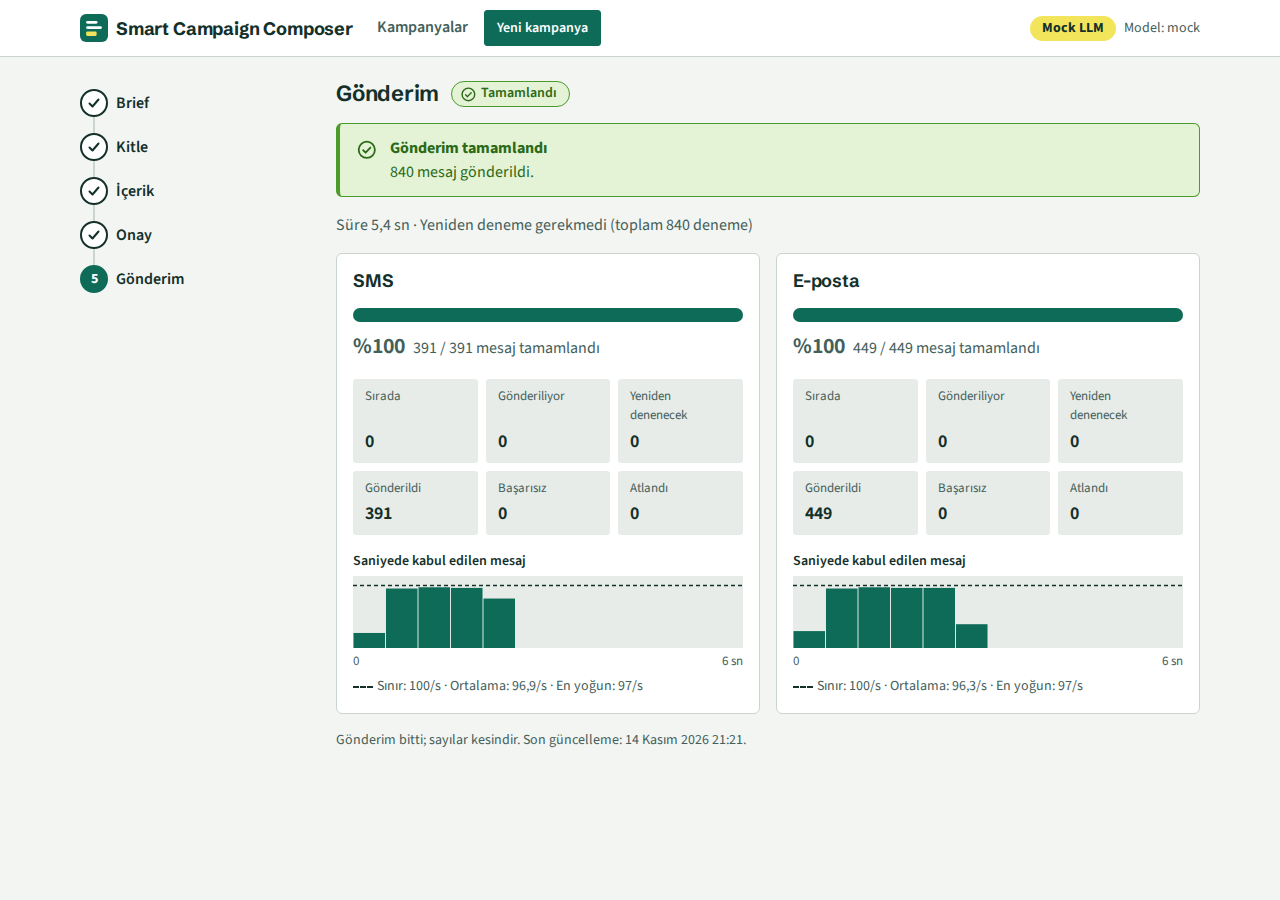
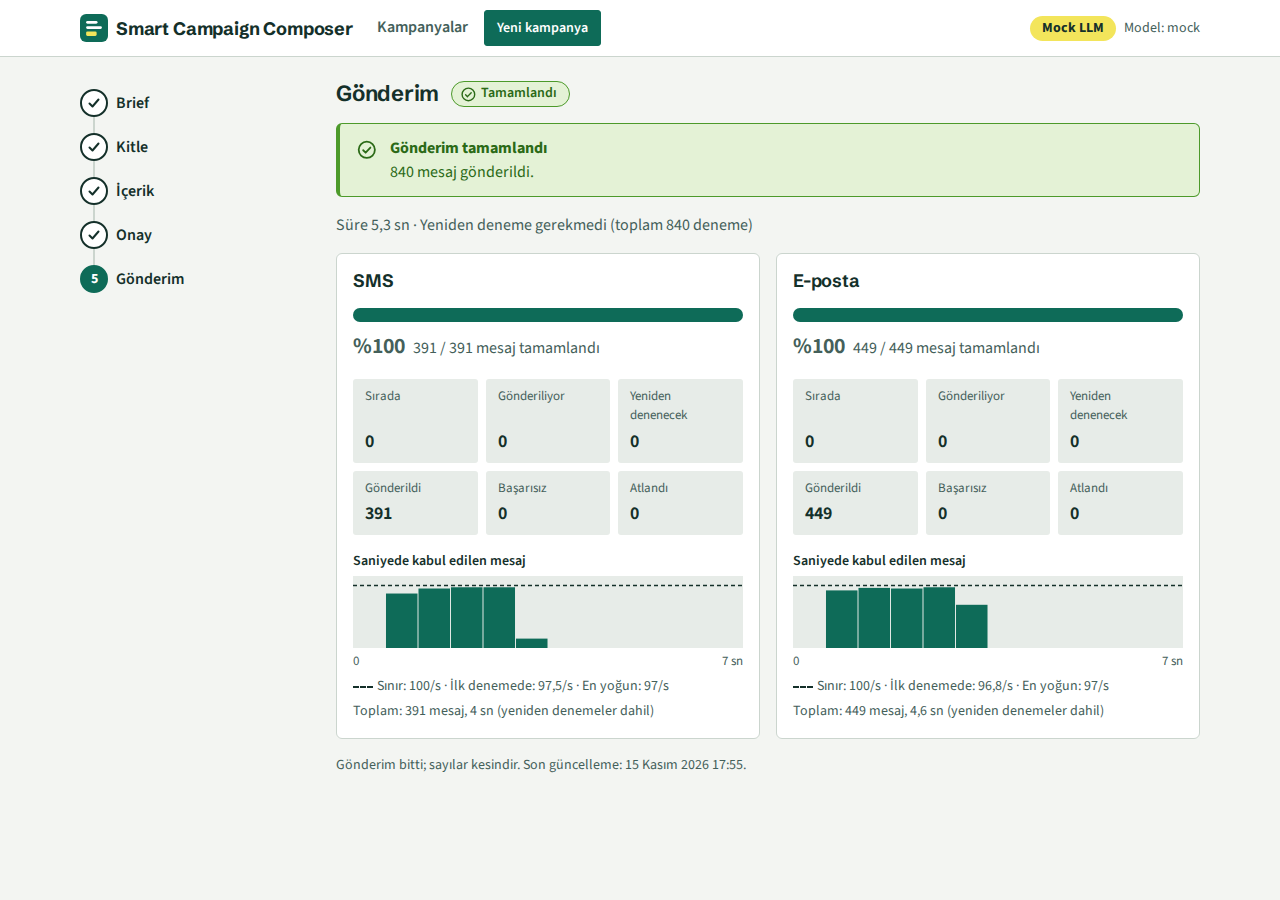
fix(campaign,web): first-attempt speed and total time per channel instead of one average
The average counted the wait for retries, so 351 e-mails in 47 s read 7.5/s next
to a cap of 100/s. The timeline now sends the speed of the first requests and the
total time apart (migration 0009 adds attempts to the sent-at index). Screenshots
regenerated with make e2e.

diff --git a/web/src/domain/delivery.ts b/web/src/domain/delivery.ts
@@ -1,5 +1,5 @@
 import type { CampaignStatus, ChannelCounts, Timeline } from '@/api/types'
-import { formatNumber, formatRate } from './format'
+import { formatDuration, formatNumber, formatRate } from './format'
 import type { Tone } from '@/components/ui/StatusIcon.vue'
 
 // Figures of the delivery dashboard that are not about drawing: how far a channel is, what its rate is, and how a campaign
@@ -100,8 +100,10 @@ export interface ChartModel {
   /** The limit in messages per second, or null when the worker never reported one. */
   limit: number | null
   peak: number
-  /** The channel's average rate from its first to its last message, or null when the server did not say. */
-  average: number | null
+  /** The speed of the sending itself (messages accepted on the first request), or null when the server did not say or nothing was sent. */
+  firstAttemptRate: number | null
+  /** Seconds from the channel's first to its last accepted message, retries included, or null when the server did not say. */
+  duration: number | null
   total: number
   /** Seconds the chart spans. */
   seconds: number
@@ -110,7 +112,10 @@ export interface ChartModel {
 export const MIN_SLOTS = 12
 
 /** The bars of a channel's timeline against its limit: pure numbers, so the drawing does no arithmetic. */
-export function chartOf(timeline: Pick<Timeline, 'bucket_seconds' | 'accepted' | 'average_per_second'>, limit: number | null): ChartModel {
+export function chartOf(
+  timeline: Pick<Timeline, 'bucket_seconds' | 'accepted' | 'first_attempt_per_second' | 'duration_seconds'>,
+  limit: number | null,
+): ChartModel {
   const width = timeline.bucket_seconds
   const bars = timeline.accepted.map((n, slot) => ({ slot, rate: n / width }))
   const peak = bars.reduce((m, b) => Math.max(m, b.rate), 0)
@@ -121,7 +126,8 @@ export function chartOf(timeline: Pick<Timeline, 'bucket_seconds' | 'accepted' |
     bars,
     limit,
     peak,
-    average: total === 0 ? null : (timeline.average_per_second ?? null),
+    firstAttemptRate: total === 0 ? null : (timeline.first_attempt_per_second ?? null),
+    duration: total === 0 ? null : (timeline.duration_seconds ?? null),
     total,
     seconds: bars.length * width,
   }
@@ -130,7 +136,8 @@ export function chartOf(timeline: Pick<Timeline, 'bucket_seconds' | 'accepted' |
 /** The chart in words, for a screen reader (the drawing itself is not read). */
 export function chartText(label: string, chart: ChartModel): string {
   const limit = chart.limit === null ? '' : ` Sınır: saniyede ${formatRate(chart.limit)} mesaj.`
-  const average = chart.average === null ? '' : `ortalama saniyede ${formatRate(chart.average)} mesaj, `
+  const firstAttempt = chart.firstAttemptRate === null ? '' : `ilk denemede saniyede ${formatRate(chart.firstAttemptRate)} mesaj, `
+  const total = chart.duration === null ? '' : ` Yeniden denemeler dahil toplam ${formatDuration(chart.duration)}.`
   if (chart.total === 0) return `${label}: henüz kabul edilen mesaj yok.${limit}`
-  return `${label}: ${formatNumber(chart.seconds)} saniyede ${formatNumber(chart.total)} mesaj kabul edildi; ${average}en yoğun saniyede ${formatRate(chart.peak)} mesaj.${limit}`
+  return `${label}: ${formatNumber(chart.seconds)} saniyede ${formatNumber(chart.total)} mesaj kabul edildi; ${firstAttempt}en yoğun saniyede ${formatRate(chart.peak)} mesaj.${limit}${total}`
 }

diff --git a/web/src/components/send/RateChart.test.ts b/web/src/components/send/RateChart.test.ts
@@ -41,15 +41,24 @@ describe('RateChart', () => {
     expect(unknown.text()).not.toContain('Sınır')
   })
 
-  it('gives the channel’s own average next to its peak and its cap', () => {
+  it('gives the channel’s own first-attempt speed next to its peak and its cap, and the total time apart', () => {
     const wrapper = mount(RateChart, {
-      props: { timeline: { start: '2026-11-14T12:00:00Z', bucket_seconds: 1, accepted: [0, 40, 100, 100, 20], average_per_second: 86.7 }, limit: 100, label: 'SMS' },
+      props: {
+        timeline: { start: '2026-11-14T12:00:00Z', bucket_seconds: 1, accepted: [0, 40, 100, 100, 20], first_attempt_per_second: 95.8, duration_seconds: 47.2 },
+        limit: 100,
+        label: 'SMS',
+      },
     })
-    expect(wrapper.get('.chart__caption').text()).toContain('Ortalama: 86,7/s')
+    expect(wrapper.get('.chart__caption').text()).toContain('İlk denemede: 95,8/s')
     expect(wrapper.get('.chart__caption').text()).toContain('En yoğun: 100/s')
-    expect(wrapper.get('svg').attributes('aria-label')).toContain('ortalama saniyede 86,7 mesaj, en yoğun saniyede 100 mesaj')
-    // an older server sends no average: the caption simply has none
-    expect(render([0, 40]).get('.chart__caption').text()).not.toContain('Ortalama')
+    // the whole time, retries included, is a figure of its own, so that it is not read as a speed next to the cap
+    expect(wrapper.get('.chart__total').text()).toBe('Toplam: 260 mesaj, 47 sn (yeniden denemeler dahil)')
+    expect(wrapper.get('svg').attributes('aria-label')).toContain('ilk denemede saniyede 95,8 mesaj, en yoğun saniyede 100 mesaj')
+    expect(wrapper.get('svg').attributes('aria-label')).toContain('Yeniden denemeler dahil toplam 47 sn.')
+    // an older server sends neither: the caption simply has none
+    const old = render([0, 40])
+    expect(old.get('.chart__caption').text()).not.toContain('İlk denemede')
+    expect(old.find('.chart__total').exists()).toBe(false)
   })
 
   it('has a text summary for a screen reader and the figures in words next to it', () => {

diff --git a/web/src/components/send/RateChart.vue b/web/src/components/send/RateChart.vue
@@ -2,7 +2,7 @@
 import { computed, useId } from 'vue'
 import type { Timeline } from '@/api/types'
 import { chartOf, chartText } from '@/domain/delivery'
-import { formatDuration, formatRate } from '@/domain/format'
+import { formatDuration, formatNumber, formatRate } from '@/domain/format'
 
 // The messages the provider accepted, second by second, as bars, with the channel's rate limit as a line. A small SVG without a
 // chart library: each bar is one bucket of the server's timeline. While the delivery runs the chart grows to the right with
@@ -48,8 +48,11 @@ const span = computed(() => formatDuration(chart.value.seconds))
     </div>
     <p class="chart__caption">
       <template v-if="limit !== null"><span class="chart__key" aria-hidden="true" />Sınır: <span class="num">{{ formatRate(limit) }}</span>/s · </template>
-      <template v-if="chart.average !== null">Ortalama: <span class="num">{{ formatRate(chart.average) }}</span>/s · </template>
+      <template v-if="chart.firstAttemptRate !== null">İlk denemede: <span class="num">{{ formatRate(chart.firstAttemptRate) }}</span>/s · </template>
       En yoğun: <span class="num">{{ formatRate(chart.peak) }}</span>/s
+    </p>
+    <p v-if="chart.duration !== null" class="chart__total">
+      Toplam: <span class="num">{{ formatNumber(chart.total) }}</span> mesaj, <span class="num">{{ formatDuration(chart.duration) }}</span> (yeniden denemeler dahil)
     </p>
   </figure>
 </template>
@@ -99,7 +102,8 @@ const span = computed(() => formatDuration(chart.value.seconds))
   font-size: var(--text-xs);
 }
 
-.chart__caption {
+.chart__caption,
+.chart__total {
   color: var(--text-soft);
   font-size: var(--text-sm);
 }

diff --git a/e2e/tests/happy-path.spec.ts b/e2e/tests/happy-path.spec.ts
@@ -80,13 +80,15 @@ test('brief to a finished delivery', async ({ page }) => {
   for (const channel of ['sms', 'email']) {
     const caption = (await page.locator(`[data-channel="${channel}"] .chart__caption`).innerText()).replace(/\s+/g, ' ')
     const figure = (re: RegExp) => Number(re.exec(caption)?.[1]?.replace(/\./g, '').replace(',', '.'))
-    const average = figure(/Ortalama: ([\d.,]+)\/s/)
+    const firstAttempt = figure(/İlk denemede: ([\d.,]+)\/s/)
     const peak = figure(/En yoğun: ([\d.,]+)\/s/)
-    expect(average, `the average of ${channel}`).toBeGreaterThan(0)
+    expect(firstAttempt, `the first-attempt speed of ${channel}`).toBeGreaterThan(0)
     expect(peak, `the peak of ${channel}`).toBeGreaterThan(0)
     // buckets are by the time the answer was recorded, so a little over the cap is not a broken cap; double would be one
     expect(peak, `${channel} is capped at 100/s`).toBeLessThanOrEqual(110)
-    expect(average, `${channel} is capped at 100/s`).toBeLessThanOrEqual(110)
+    expect(firstAttempt, `${channel} is capped at 100/s`).toBeLessThanOrEqual(110)
+    // the total time, retries included, is not a speed: it has its own line
+    await expect(page.locator(`[data-channel="${channel}"] .chart__total`)).toContainText(/Toplam: .* mesaj, .*yeniden denemeler dahil/)
   }
   await shot(page, '05-delivery-completed')
 })

diff --git a/web/src/api/campaigns.test.ts b/web/src/api/campaigns.test.ts
@@ -159,7 +159,8 @@ describe('a response that does not match the contract is a bad_response', () => 
     ['a rate limit that is not a number', { rate_limit: '100' }],
     ['a timeline without buckets', { timeline: { start: 'x', bucket_seconds: 1 } }],
     ['a timeline with a bucket width of zero', { timeline: { start: 'x', bucket_seconds: 0, accepted: [1] } }],
-    ['a timeline with an average that is not a number', { timeline: { start: 'x', bucket_seconds: 1, accepted: [1], average_per_second: 'fast' } }],
+    ['a timeline with a first-attempt speed that is not a number', { timeline: { start: 'x', bucket_seconds: 1, accepted: [1], first_attempt_per_second: 'fast' } }],
+    ['a timeline with a negative duration', { timeline: { start: 'x', bucket_seconds: 1, accepted: [1], duration_seconds: -1 } }],
     ['a timeline with a negative count', { timeline: { start: 'x', bucket_seconds: 1, accepted: [-1] } }],
     ['a timeline far longer than the server sends', { timeline: { start: 'x', bucket_seconds: 1, accepted: new Array(5000).fill(1) } }],
   ])('statistics with %s', async (_name, extra) => {

diff --git a/web/src/domain/delivery.test.ts b/web/src/domain/delivery.test.ts
@@ -123,7 +123,14 @@ describe('chartOf', () => {
     const chart = chartOf({ bucket_seconds: 2, accepted: [200, 100, 0] }, 100)
     expect(chart.bars.map((b) => b.rate)).toEqual([100, 50, 0])
     expect(chart.peak).toBe(100)
-    expect(chart.average).toBeNull() // no average from the server (an older one) or nothing sent: none is made up
+    // no figures from the server (an older one): none is made up
+    expect(chart.firstAttemptRate).toBeNull()
+    expect(chart.duration).toBeNull()
+    const sent = chartOf({ bucket_seconds: 1, accepted: [10], first_attempt_per_second: 8, duration_seconds: 20 }, 100)
+    expect([sent.firstAttemptRate, sent.duration]).toEqual([8, 20])
+    // nothing sent: nothing to say about its speed either
+    const none = chartOf({ bucket_seconds: 1, accepted: [0], first_attempt_per_second: 0, duration_seconds: 0 }, 100)
+    expect([none.firstAttemptRate, none.duration]).toEqual([null, null])
     expect(chart.total).toBe(300)
     expect(chart.seconds).toBe(6)
     expect(chart.max).toBeCloseTo(115)

diff --git a/web/src/api/types.ts b/web/src/api/types.ts
@@ -176,8 +176,10 @@ export interface Timeline {
   start: string
   bucket_seconds: number
   accepted: number[]
-  /** Messages of this channel per second from its first to its last one (at least a second); each channel has its own cap, so the rate is per channel. */
-  average_per_second?: number
+  /** Messages accepted on their first request per second, from the first to the last of them (at least a second): the speed of the sending itself, without the wait of retries. Per channel, as each has its own cap. */
+  first_attempt_per_second?: number
+  /** Seconds from the first to the last message the provider accepted on this channel, retries included. */
+  duration_seconds?: number
 }
 
 /** The send as a whole (null before the approval). */

diff --git a/web/src/api/campaigns.ts b/web/src/api/campaigns.ts
@@ -103,7 +103,8 @@ function isTimeline(t: unknown): boolean {
     Array.isArray(t.accepted) &&
     t.accepted.length <= MAX_BUCKETS &&
     t.accepted.every((n) => typeof n === 'number' && n >= 0) &&
-    optional(t.average_per_second, (a) => typeof a === 'number' && a >= 0)
+    optional(t.first_attempt_per_second, (a) => typeof a === 'number' && a >= 0) &&
+    optional(t.duration_seconds, (d) => typeof d === 'number' && d >= 0)
   )
 }
 

diff --git a/backend/internal/campaign/timeline.go b/backend/internal/campaign/timeline.go
@@ -34,10 +34,15 @@ type Timeline struct {
 	Start         time.Time `json:"start"`
 	BucketSeconds int       `json:"bucket_seconds"`
 	Accepted      []int     `json:"accepted"`
-	// AveragePerSecond is the messages of this channel divided by the time from its first to its last message, at least one
-	// second; zero before anything was sent. It is per channel on purpose: each channel has its own cap, and a figure of both
+	// FirstAttemptPerSecond is the speed of the sending itself: the messages the provider accepted on their first request (attempts
+	// = 1), divided by the time from the first to the last of them, at least one second; zero when there were none. A message
+	// that needed a retry waited out a backoff, so counting it (and the time of the tail) would put the figure far under the cap
+	// while the worker was sending at the cap. It is per channel on purpose: each channel has its own cap, and a figure of both
 	// channels together looks like a cap that was broken when it was not.
-	AveragePerSecond float64 `json:"average_per_second"`
+	FirstAttemptPerSecond float64 `json:"first_attempt_per_second"`
+	// DurationSeconds is the time from the first to the last message the provider accepted on this channel, retries included;
+	// zero before anything was sent. Next to the first-attempt speed it tells how long the retries kept the channel busy.
+	DurationSeconds float64 `json:"duration_seconds"`
 }
 
 // SendSummary describes the send as a whole. It holds no rate: the rates belong to a channel (see Timeline), the caps are per channel.
@@ -56,8 +61,11 @@ const TimelineBoundsSQL = `SELECT now(),
 	(SELECT sent_at FROM deliveries WHERE campaign_id = $1 AND status = 'sent' ORDER BY sent_at DESC LIMIT 1)`
 
 // TimelineSQL counts the sent messages of a campaign per channel and bucket: $1 the campaign, $2 the start of the first bucket,
-// $3 the bucket width in seconds. An index-only scan of deliveries_sent_at_idx (a test checks the plan).
-const TimelineSQL = `SELECT channel, GREATEST(floor(extract(epoch FROM sent_at - $2::timestamptz) / $3), 0)::int AS bucket, count(*), min(sent_at), max(sent_at)
+// $3 the bucket width in seconds. The last three columns are the same count and ends for the messages accepted on their first
+// request (attempts = 1); they are null-ended when the bucket has none. An index-only scan of deliveries_sent_at_idx, which
+// carries `attempts` as a payload column (migration 0009; a test checks the plan).
+const TimelineSQL = `SELECT channel, GREATEST(floor(extract(epoch FROM sent_at - $2::timestamptz) / $3), 0)::int AS bucket, count(*), min(sent_at), max(sent_at),
+		count(*) FILTER (WHERE attempts = 1), min(sent_at) FILTER (WHERE attempts = 1), max(sent_at) FILTER (WHERE attempts = 1)
 	FROM deliveries WHERE campaign_id = $1 AND status = 'sent' GROUP BY channel, bucket`
 
 // timelines reads the per-channel timelines of an approved campaign. approvedAt is the start; completedAt is nil while the send
@@ -91,16 +99,20 @@ func (s *Store) timelines(ctx context.Context, db reader, id int64, approvedAt t
 		return nil, fmt.Errorf("counting the messages of campaign %d per second: %w", id, err)
 	}
 	defer rows.Close()
+	// span is where the sent messages of a channel start and end; the first-attempt ones have a span of their own.
 	type span struct {
-		count       int
 		first, last time.Time
+		firstCount  int
+		firstFirst  time.Time
+		firstLast   time.Time
 	}
 	spans := map[string]*span{}
 	for rows.Next() {
 		var channel string
-		var bucket, count int
+		var bucket, count, firstCount int
 		var firstSent, lastSent time.Time
-		if err := rows.Scan(&channel, &bucket, &count, &firstSent, &lastSent); err != nil {
+		var firstTry, lastTry *time.Time // null when no message of the bucket was accepted on its first request
+		if err := rows.Scan(&channel, &bucket, &count, &firstSent, &lastSent, &firstCount, &firstTry, &lastTry); err != nil {
 			return nil, fmt.Errorf("counting the messages of campaign %d per second: %w", id, err)
 		}
 		tl := out[channel]
@@ -113,12 +125,20 @@ func (s *Store) timelines(ctx context.Context, db reader, id int64, approvedAt t
 			sp = &span{first: firstSent, last: lastSent}
 			spans[channel] = sp
 		}
-		sp.count += count
 		if firstSent.Before(sp.first) {
 			sp.first = firstSent
 		}
 		if lastSent.After(sp.last) {
 			sp.last = lastSent
+		}
+		if firstCount > 0 && firstTry != nil && lastTry != nil {
+			if sp.firstCount == 0 || firstTry.Before(sp.firstFirst) {
+				sp.firstFirst = *firstTry
+			}
+			if sp.firstCount == 0 || lastTry.After(sp.firstLast) {
+				sp.firstLast = *lastTry
+			}
+			sp.firstCount += firstCount
 		}
 	}
 	if err := rows.Err(); err != nil {
@@ -126,7 +146,10 @@ func (s *Store) timelines(ctx context.Context, db reader, id int64, approvedAt t
 	}
 
 	for ch, sp := range spans {
-		out[ch].AveragePerSecond = float64(sp.count) / max(1, sp.last.Sub(sp.first).Seconds())
+		out[ch].DurationSeconds = sp.last.Sub(sp.first).Seconds()
+		if sp.firstCount > 0 {
+			out[ch].FirstAttemptPerSecond = float64(sp.firstCount) / max(1, sp.firstLast.Sub(sp.firstFirst).Seconds())
+		}
 	}
 	return out, nil
 }

diff --git a/backend/internal/campaign/store_integration_test.go b/backend/internal/campaign/store_integration_test.go
@@ -811,16 +811,23 @@ func TestStore_statsTimelineAndSummary(t *testing.T) {
 	if sum.DurationSeconds != nil {
 		t.Fatalf("duration of a campaign that is not completed = %v, want none", *sum.DurationSeconds)
 	}
-	// The rates are per channel (each has its own cap): five sms in the 1.4 s from 0.5 to 1.9, two e-mails in 0.1 s (counted
-	// as at least a second).
-	if got := smsTL.AveragePerSecond; got < 3.56 || got > 3.58 {
-		t.Fatalf("sms average = %v, want 5 / 1.4 = 3.57", got)
+	// The rates are per channel (each has its own cap). The first-attempt speed leaves out the message that was retried: four sms
+	// in the 1.3 s from 0.6 to 1.9 (the retried one was sent at 0.5), one e-mail on its first request (the one sent at 1.2 took
+	// three), counted as at least a second. The duration is first to last of all of them, retries included.
+	if got := smsTL.FirstAttemptPerSecond; got < 3.07 || got > 3.08 {
+		t.Fatalf("sms first-attempt speed = %v, want 4 / 1.3 = 3.08", got)
 	}
-	if got := emailTL.AveragePerSecond; got != 2 {
-		t.Fatalf("email average = %v, want 2 (two messages in less than a second)", got)
+	if got := emailTL.FirstAttemptPerSecond; got != 1 {
+		t.Fatalf("email first-attempt speed = %v, want 1 (one message in less than a second)", got)
 	}
-	if stats.Channels["sms"].Timeline.AveragePerSecond == stats.Channels["email"].Timeline.AveragePerSecond {
-		t.Fatal("the two channels have one average: it must be per channel")
+	if got := smsTL.DurationSeconds; got < 1.39 || got > 1.41 {
+		t.Fatalf("sms duration = %v, want 1.4 (0.5 to 1.9)", got)
+	}
+	if got := emailTL.DurationSeconds; got < 0.09 || got > 0.11 {
+		t.Fatalf("email duration = %v, want 0.1 (1.2 to 1.3)", got)
+	}
+	if smsTL.FirstAttemptPerSecond == emailTL.FirstAttemptPerSecond {
+		t.Fatal("the two channels have one speed: it must be per channel")
 	}
 	// 5 sms: 2+1+1+1+1, 2 email: 3+1
 	if sum.RetriedMessages != 2 || sum.TotalAttempts != 10 {

diff --git a/backend/internal/campaign/explain_integration_test.go b/backend/internal/campaign/explain_integration_test.go
@@ -173,7 +173,8 @@ func TestIndex_servesTheStatsQueryAndTheCompletionCheck(t *testing.T) {
 			t.Fatalf("the redundant (campaign_id, status) index still exists (%d, %v)", n, err)
 		}
 	})
-	// The counts per second are answered from deliveries_sent_at_idx alone: it holds campaign, time and channel, and only sent rows.
+	// The counts per second are answered from deliveries_sent_at_idx alone: it holds campaign, time and channel (and attempts as a
+	// payload column, for the first-attempt figures), and only sent rows.
 	// The stats index also fits "campaign and status", and on a test database whose visibility map is empty the planner cannot tell
 	// the two apart (its costs are within a few percent), so this check, which must come after the others, takes that one away and
 	// shows that the sent-at index by itself can answer the query without touching the table.

diff --git a/DECISIONS.md b/DECISIONS.md
@@ -982,8 +982,8 @@ reporting and in the stream's write path.
 - **Rate cap:** the worker writes its configured `RatePerSecond` into `worker_channel_status.rate_per_second` with each heartbeat
   (migration 0007; NULL = not reported); stats return it as `rate_limit` per channel and the dashboard draws that value. When it is
   missing there is no line and no caption (the page no longer has a number of its own). Standby workers report nothing, as before.
-- **Timeline:** `channels.<ch>.timeline = {start, bucket_seconds, accepted[], average_per_second}` (the average was added in "Speeds are
-  per channel"): messages whose delivery was recorded as sent in each
+- **Timeline:** `channels.<ch>.timeline = {start, bucket_seconds, accepted[], first_attempt_per_second, duration_seconds}` (the two
+  figures replaced the single average in "The speed of a channel is the first-attempt speed"): messages whose delivery was recorded as sent in each
   bucket, from the second of the approval to the last message (or to now while sending, by the database clock). **At most 600
   buckets**: a campaign longer than that is counted in the narrowest of 2, 5, 10, 30 s ... buckets that fit, so the bars of a long
   send do not change width every second. `sent_at` is the time the worker *recorded* success, which is when the provider's answer
@@ -992,7 +992,7 @@ reporting and in the stream's write path.
   the closing session, see "Speeds are per channel"). Duration is approval to completion (null until completed).
   *Retried* means more than one attempt (`attempts > 1`); the attempt that an outage gave back (see "A circuit breaker per channel")
   does not count, which is why the outage scenario shows no retries. Total attempts is `sum(attempts)`.
-- **Index (migration 0008):** `deliveries_sent_at_idx (campaign_id, sent_at, channel) WHERE status = 'sent'`. The first and last send time are
+- **Index (migration 0008, `INCLUDE (attempts)` added by 0009):** `deliveries_sent_at_idx (campaign_id, sent_at, channel) INCLUDE (attempts) WHERE status = 'sent'`. The first and last send time are
   the two ends of the index; the counts per bucket read the index alone. The EXPLAIN test shows both plans (`go test -run Index -v`).
   *Known limit of the test:* on a fresh test database the visibility map is empty and the planner cannot tell this index from the
   stats index (costs within a few percent), so the last subtest drops the stats index first and shows that the sent-at index alone
@@ -1110,6 +1110,25 @@ reporting and in the stream's write path.
   `bad_response`, as before.
 - **Choice:** removing the two summary fields rather than keeping and relabelling them ("iki kanalın toplamı"): nothing needs a total
   speed, and a number that has to be explained is a number that gets misread. The e2e test now reads the figures from each channel card.
+- **Superseded in part:** the per-channel "Ortalama" described here is replaced by the next section (the per-channel idea stays).
+
+### The speed of a channel is the first-attempt speed
+- **Problem (found reading the send summary after a send with the default demo provider):** "average N messages per second" was
+  all messages of the channel divided by the time from its first to its last message. With retries that time includes the backoff
+  (the first wait is 15 s): 351 e-mails in 47 s read 7.5/s next to a cap of 100/s, although the worker had sent at about the cap and
+  only the last few messages waited for their retry. The figure looked like a broken or idle worker.
+- **Decision:** two figures per channel instead of one, both from the same index-only query. `first_attempt_per_second`: the
+  messages the provider accepted on their first request (`attempts = 1`) over the time from the first to the last of them (at least
+  a second): the speed of the sending itself. `duration_seconds`: first to last accepted message of the channel, retries included.
+  The card shows "İlk denemede: N/s" next to the cap and the peak, and the total as a line of its own ("Toplam: 351 mesaj, 47 sn
+  (yeniden denemeler dahil)"), so that a time is not read as a speed. `attempts = 1` means one claimed request ended in an answer
+  that was accepted; an attempt that an outage gave back does not count (see "A circuit breaker per channel"), the confirmation
+  request is attempt 6.
+- **Cost:** migration 0009 recreates `deliveries_sent_at_idx` with `attempts` as a payload column (`INCLUDE`), so the timeline is
+  still an index-only scan (the EXPLAIN test checks it). The index is a little wider; it was built in the migration's transaction,
+  which is fine at this size and would be a `CREATE INDEX CONCURRENTLY` job in a large production table.
+- **Limit:** a message that needed a retry is not in the speed at all, so a send in which most messages were retried shows a low
+  or zero first-attempt speed. That is true: the channel was not sending fast, it was waiting.
 
 ### The demo mock never turns a criterion around and never drops one without saying so
 - **Problem:** evaluators will most likely try the demo model. It read "sepete ürün eklemeyen" as people who *did* add to the cart,
@@ -1590,7 +1609,7 @@ nobody. "Closed" items say where they were closed. What is left open is the low-
 - **The stats response has a strict contract.** A malformed optional `timeline` or `summary` rejects the whole response
   (`bad_response`) and the screen says "Güncel durum alınamıyor" although the counts were fine. Kept: the client and the server are
   deployed together, so a shape the client does not understand is a version mismatch, and it must be seen, not smoothed over by
-  dropping the part that does not fit. (A field that older servers did not send, like `timeline.average_per_second`, is optional;
+  dropping the part that does not fit. (A field that older servers did not send, like `timeline.first_attempt_per_second`, is optional;
   a field that is there and wrong is not.)
 - **The chart says "kabul edilen" and buckets by `sent_at`.** `sent_at` is the time the worker *recorded* the answer, not the provider's
   clock, so a bar can be over the cap while the provider's own rate was not. Kept: "kaydedilen" would be vaguer for a marketer, and what
